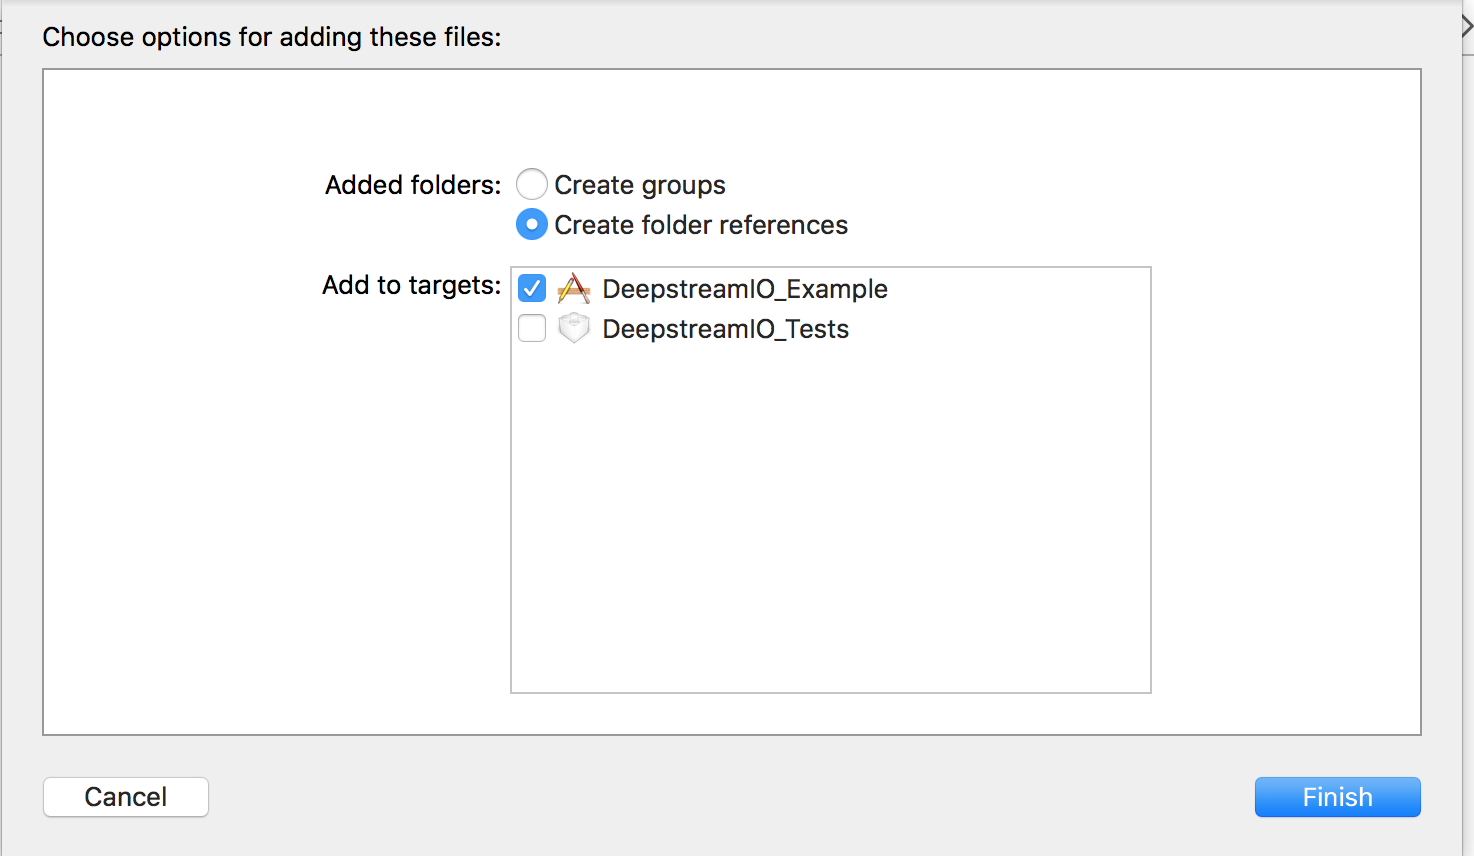
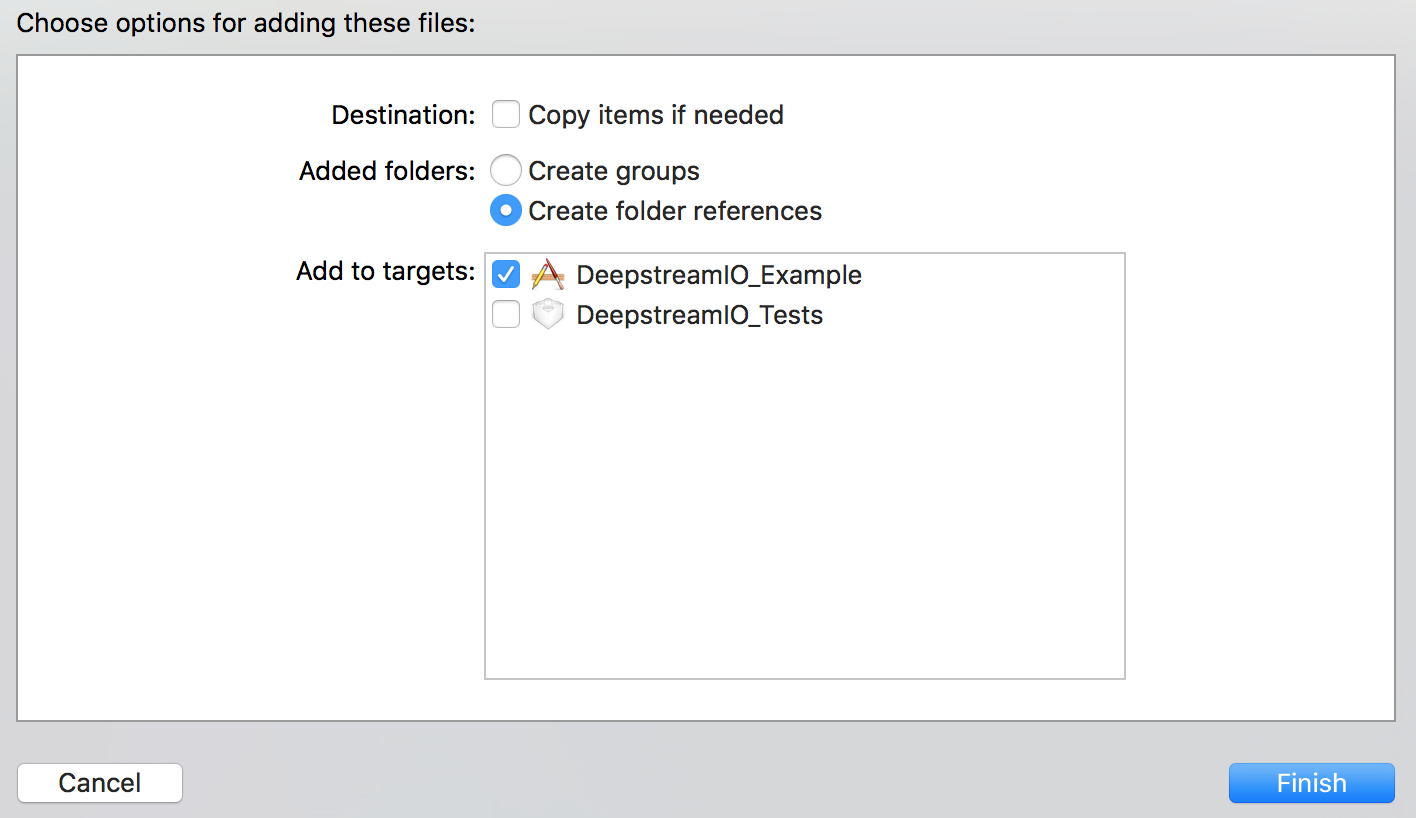
Updated README

diff --git a/README.md b/README.md
@@ -56,7 +56,7 @@ To add these:
 
 <img src="assets/extensions-1.png" width="200">
 
-3. When presented with a dialogue, make sure `Copy files if needed` is *NOT* ticked and click `Finish`.
+3. When presented with a dialogue, make sure `Copy items if needed` is *NOT* ticked and click `Finish`.
 
 <img src="assets/extensions-2.png" width="200">
 
